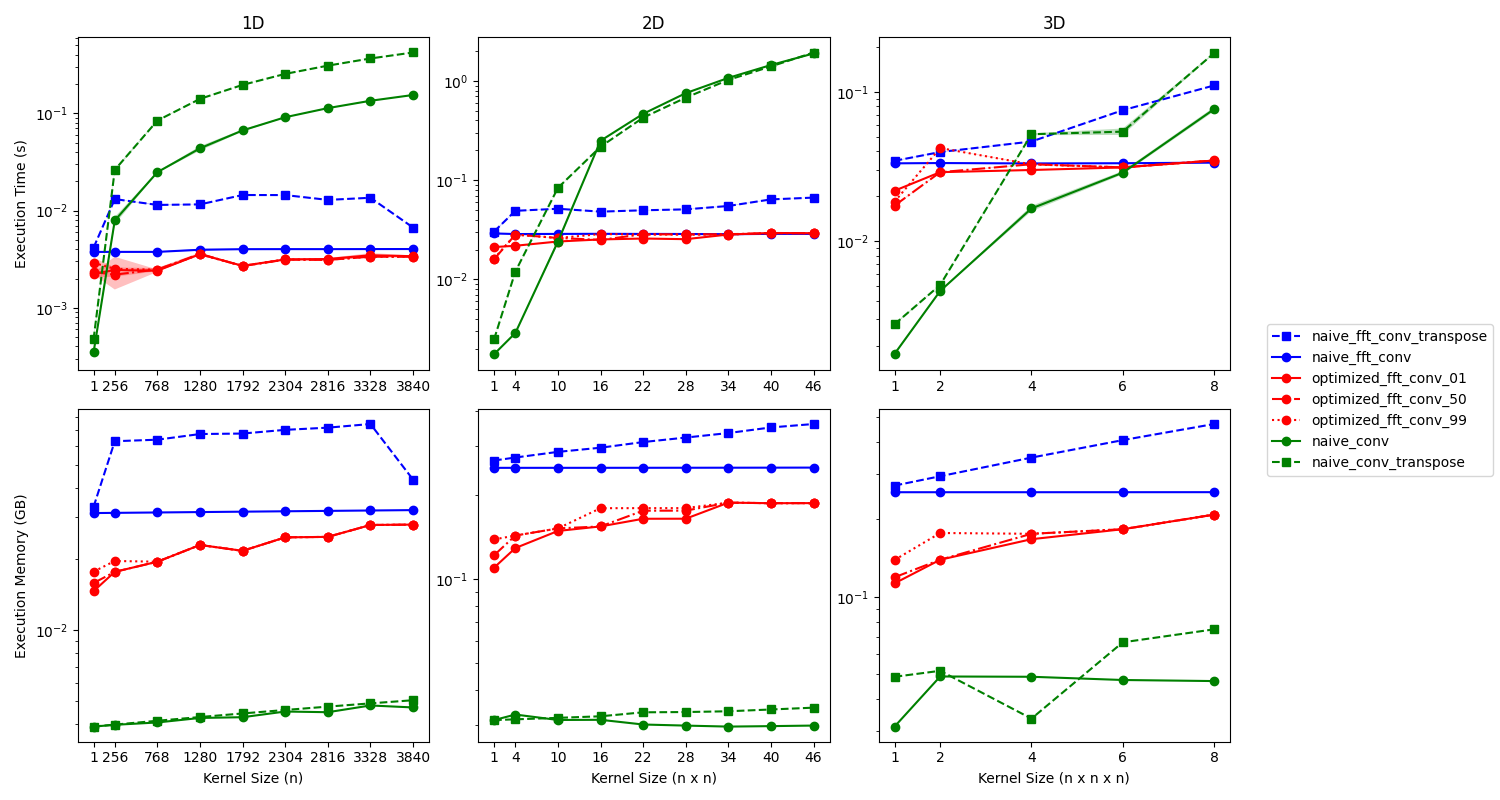
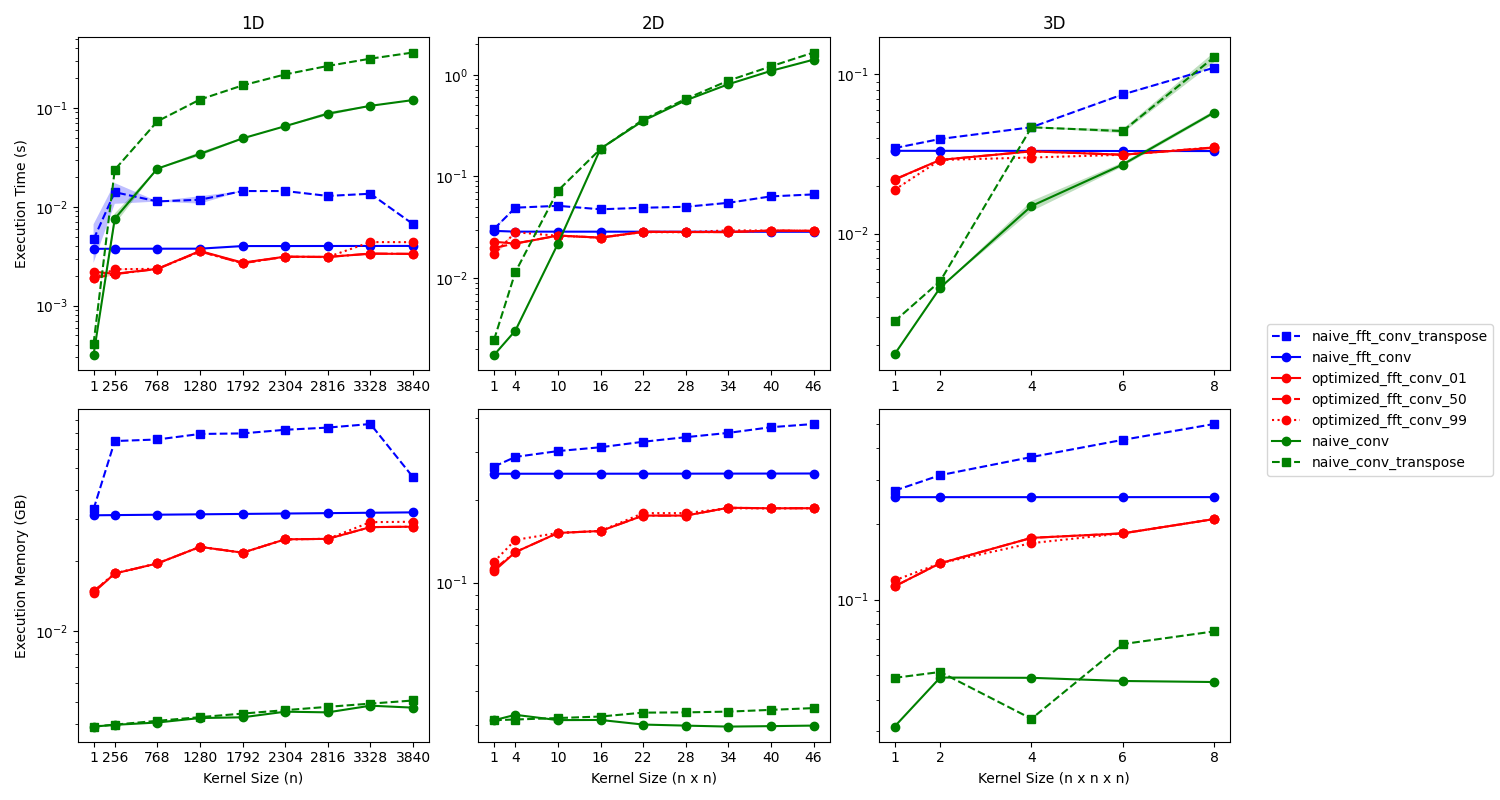
update resource approximation logic

diff --git a/fft_conv_pytorch/optimized.py b/fft_conv_pytorch/optimized.py
@@ -124,11 +124,12 @@ def opt_control(
 
     size_candidate = list(map(candidates, S, K))
     ops_size = list(map(len, size_candidate))
-    c_info = np.ones(ops_size, dtype=np.float64)  # block count
-    e_info = np.zeros(ops_size, dtype=np.float64)  # log of block size
-    s_info = np.ones(ops_size, dtype=np.float64)  # block size
-    p_info = np.ones(ops_size, dtype=np.float64)  # plane
-    d_info = np.zeros(ops_size + [n], dtype=np.float64)  # padding
+    c_info = np.ones(ops_size, dtype=np.int64)  # block count
+    e_info = np.zeros(ops_size, dtype=np.int64)  # log of block size
+    s_info = np.ones(ops_size, dtype=np.int64)  # block size
+    p_info = np.ones(ops_size, dtype=np.int64)  # plane
+    d_info = np.zeros(ops_size + [n], dtype=np.int64)  # padding
+    b_info = np.zeros(ops_size + [n], dtype=np.int64)  # block size
 
     for i, SCD in enumerate(size_candidate):
         shape = [1] * n
@@ -136,17 +137,22 @@ def opt_control(
         BC1, _, BC2, BS, GP = map(lambda x: x.reshape(shape), SCD.T)
         BC = BC1 * BC2
         c_info *= BC
-        e_info += np.ceil(np.log2(BS))
+        e_info += np.ceil(np.log2(BS)).astype(e_info.dtype)
         s_info *= BS
         p_info *= [BS, (BS // 2 + 1) * 2][i == n - 1 and real_input]
         d_info[..., i] = GP
+        b_info[..., i] = BS
 
     # Assume cuFFT is as follows:
     # time complexity = n ⌈log2 n⌉
     # memory complexity = 2 ^ ⌈log2 n⌉
-    pad_cond = ((d_info > 0).any(-1) | np.bool_(not padpenalty)).astype(d_info.dtype)
+    sig_pad = ((d_info > 0).any(-1) | np.bool_(not padpenalty)).astype(d_info.dtype)
+    krn_pad = (b_info != K).any(-1).astype(d_info.dtype)
+    sig_cnt = (c_info != 1).astype(d_info.dtype)
 
-    time_cost = np.prod(input_size[:2]) * (S + d_info).prod(-1) * pad_cond  # pad
+    time_cost = np.prod(input_size[:2]) * (S + d_info).prod(-1) * sig_pad  # signal pad
+    time_cost += np.prod(kernel_size[:2]) * b_info.prod(-1) * krn_pad  # kernel pad
+    time_cost += np.prod(input_size[:2]) * c_info * s_info * sig_cnt  # sig contiguous
     time_cost += np.prod(kernel_size[:2]) * s_info * np.maximum(1, e_info)
     time_cost += np.prod(input_size[:2]) * c_info * s_info * np.maximum(1, e_info)
     time_cost += input_size[0] * np.prod(kernel_size[:2]) * c_info * p_info
@@ -154,30 +160,46 @@ def opt_control(
         input_size[0] * kernel_size[0] * c_info * s_info * np.maximum(1, e_info)
     )
 
-    def update(peak, curr):
-        nonlocal memo_curr, memo_peak
+    def update(peak, curr, band=None):
+        nonlocal memo_curr, memo_band, memo_peak
         np.maximum(memo_peak, memo_curr + peak, out=memo_peak)
+        memo_band += [band, peak][band is None]
         memo_curr += curr
 
-    memo_curr = np.prod(input_size[:2]) * (S + d_info).prod(-1) * pad_cond  # pad
+    memo_curr = np.prod(input_size[:2]) * (S + d_info).prod(-1) * sig_pad  # signal pad
+    memo_curr += np.prod(kernel_size[:2]) * s_info * krn_pad  # kernal pad
+    memo_curr += np.prod(input_size[:2]) * c_info * s_info * sig_cnt  # sig contiguous
+    memo_band = memo_curr.copy()
     memo_peak = memo_curr.copy()
     update(
-        np.prod(kernel_size[:2]) * (p_info * 2 + s_info),
-        np.prod(kernel_size[:2]) * p_info * 2,
+        np.prod(kernel_size[:2]) * s_info * 2,
+        np.prod(kernel_size[:2]) * p_info,
+        # np.prod(kernel_size[:2]) * s_info * e_info,
     )
     update(
-        np.prod(input_size[:2]) * c_info * (p_info * 2 + s_info),
+        np.prod(input_size[:2]) * c_info * s_info * 2,
         np.prod(input_size[:2]) * c_info * p_info,
+        # np.prod(input_size[:2]) * c_info * s_info * e_info,
+    )
+    sig_tensor = np.prod(input_size[:2]) * c_info * p_info
+    krn_tensor = np.prod(kernel_size[:2]) * p_info
+    out_tensor = input_size[0] * kernel_size[0] * c_info * p_info
+    grad_save = sig_tensor + krn_tensor if backward else 0
+    update(
+        np.maximum(sig_tensor, krn_tensor) + out_tensor + grad_save,
+        out_tensor + grad_save,
+        input_size[0] * np.prod(kernel_size[:2]) * c_info * p_info
+        + sig_tensor
+        + krn_tensor
+        + out_tensor,
     )
     update(
-        input_size[0] * kernel_size[0] * c_info * p_info * 2,
-        input_size[0] * kernel_size[0] * c_info * p_info,
-    )
-    update(
-        input_size[0] * kernel_size[0] * c_info * (p_info * 2 + s_info),
+        input_size[0] * kernel_size[0] * c_info * s_info * 2,
         input_size[0] * kernel_size[0] * c_info * s_info,
+        # input_size[0] * kernel_size[0] * c_info * s_info * e_info,
     )
-    memo_cost = memo_peak
+    memo_cost = memo_peak.astype(np.float64)
+    time_cost = (time_cost + memo_band * 4).astype(np.float64)
 
     tradoff = time_cost ** (speed_impt) * memo_cost ** (1 - speed_impt)
     index = (tradoff == np.min(tradoff)).nonzero()
@@ -327,7 +349,7 @@ def fft_conv(
 
     signal, merge_index = Dblock(signal, K, TRG, ST, SSC, JMP, SBC, BSZ)
     kernel = kernel[[slice(None)] * 2 + [None] * 2 * n + [slice(None)] * n]
-
+    
     signal_fr = rfftn(signal, BSZ.tolist(), dim=tuple(range(-n, 0)))
     kernel_fr = rfftn(kernel, BSZ.tolist(), dim=tuple(range(-n, 0)))
     output_fr = complex_matmul(signal_fr, kernel_fr.conj(), groups=groups)

diff --git a/doc/scripts/generate_benchmark_plot.py b/doc/scripts/generate_benchmark_plot.py
@@ -24,7 +24,7 @@ def _get_conv_inputs(
     out_channels: int = 8,
     groups: int = 8,
 ):
-    factory_kwargs = {"device": "cuda", "dtype": torch.float32}
+    factory_kwargs = {"requires_grad": True, "device": "cuda", "dtype": torch.float32}
     dims = ndim * [input_size]
     signal = torch.randn(batch_size, in_channels, *dims, **factory_kwargs)
 
@@ -33,10 +33,9 @@ def _get_conv_inputs(
         out_channels,
         in_channels // groups,
         *kernel_size,
-        requires_grad=True,
         **factory_kwargs,
     )
-    bias = torch.randn(out_channels, requires_grad=True, **factory_kwargs)
+    bias = torch.randn(out_channels, **factory_kwargs)
 
     return signal, weight, bias
 
@@ -83,7 +82,9 @@ def benchmark_kernel_size(
         num_iterations=num_iterations,
         **chan_opt,
     )
-    return zip(*(fn(kernel_size=k) for k in tqdm(kernel_sizes, desc=desc)))
+    return zip(
+        *(fn(kernel_size=k) for k in tqdm(kernel_sizes, desc=f"{desc:<30s}", ncols=0))
+    )
 
 
 def _plot_benchmarks(
